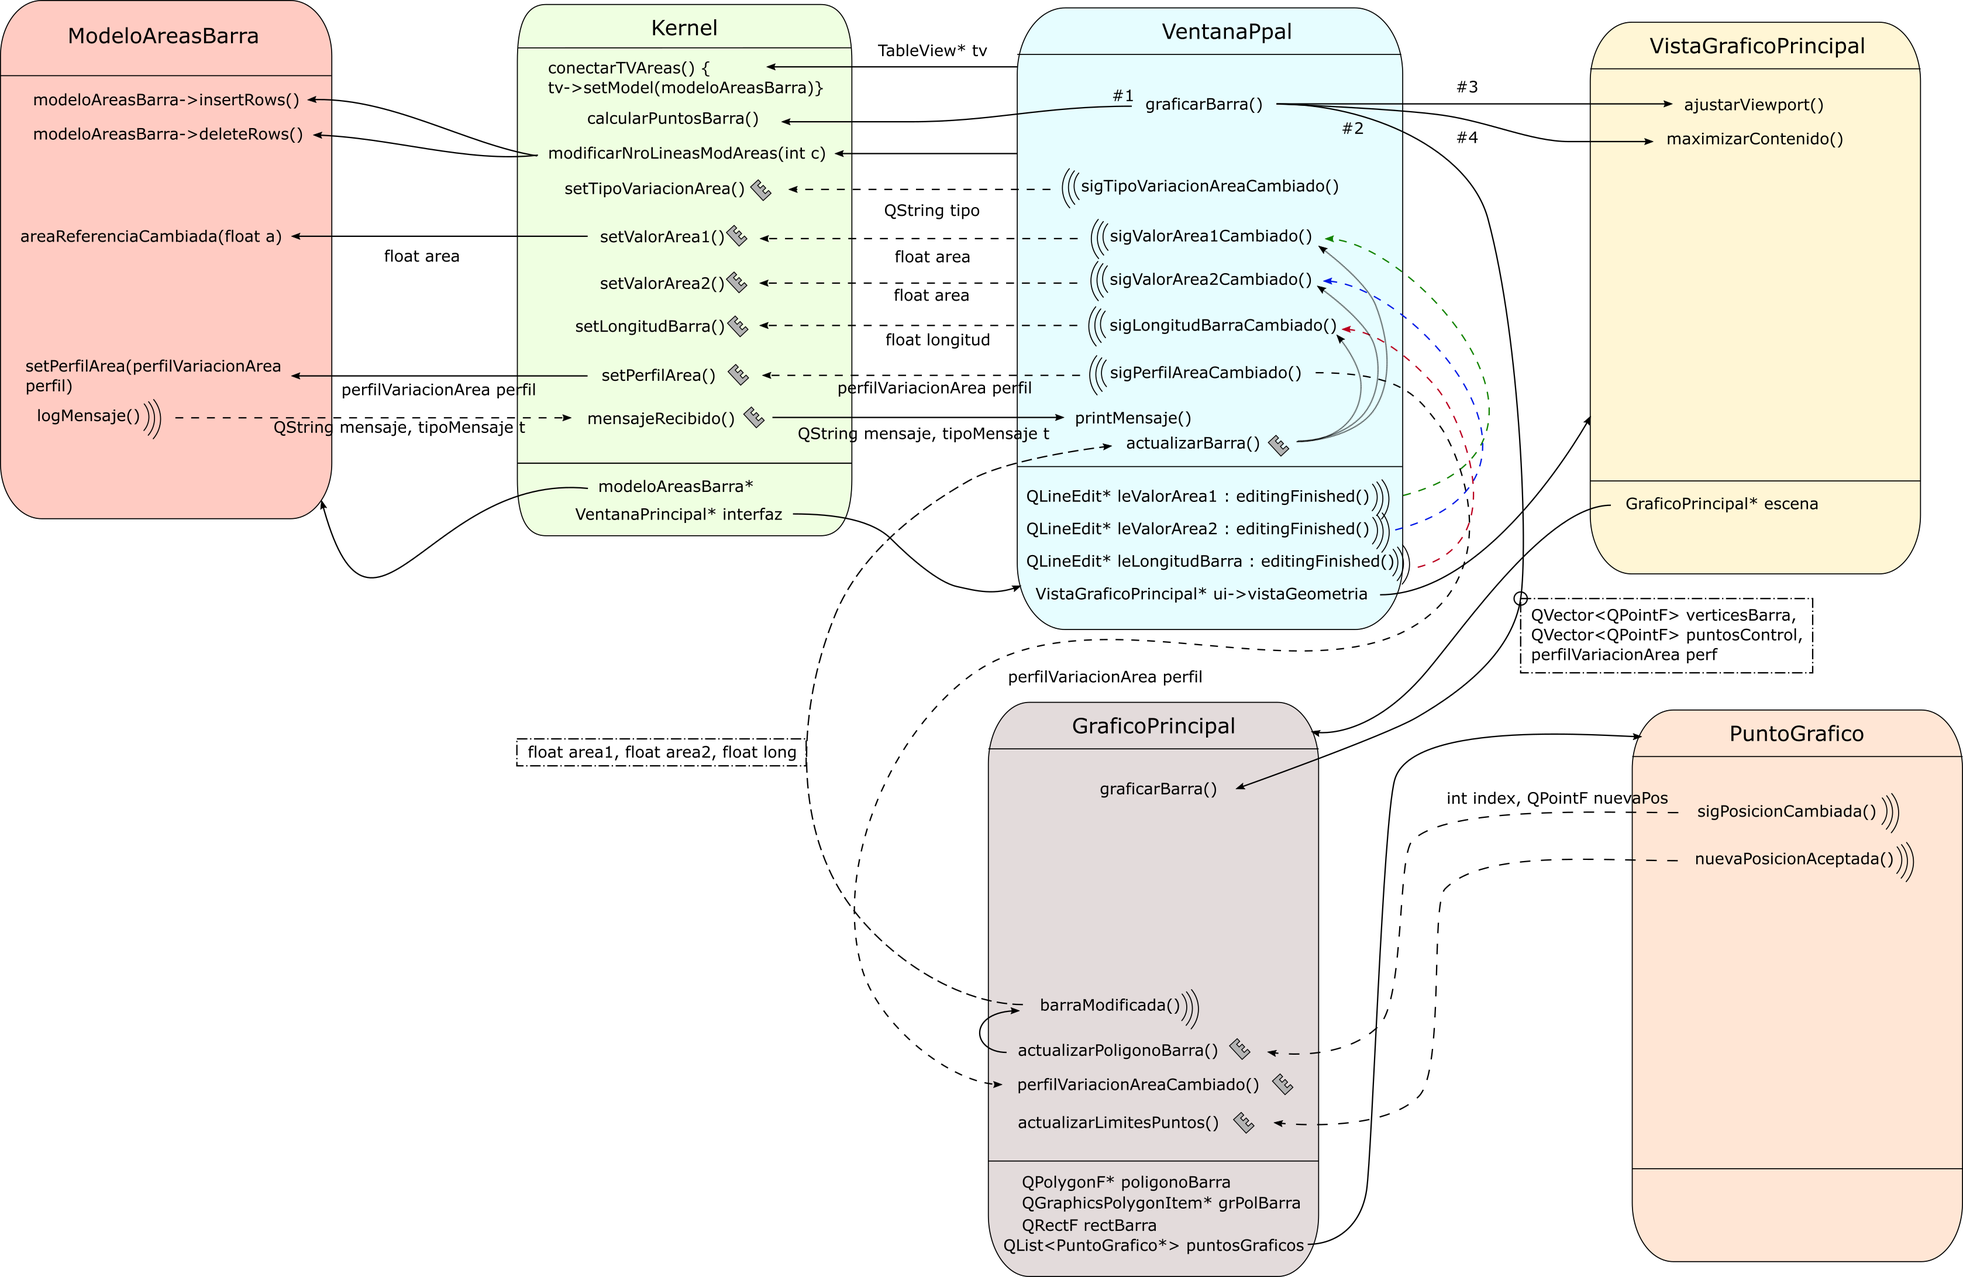
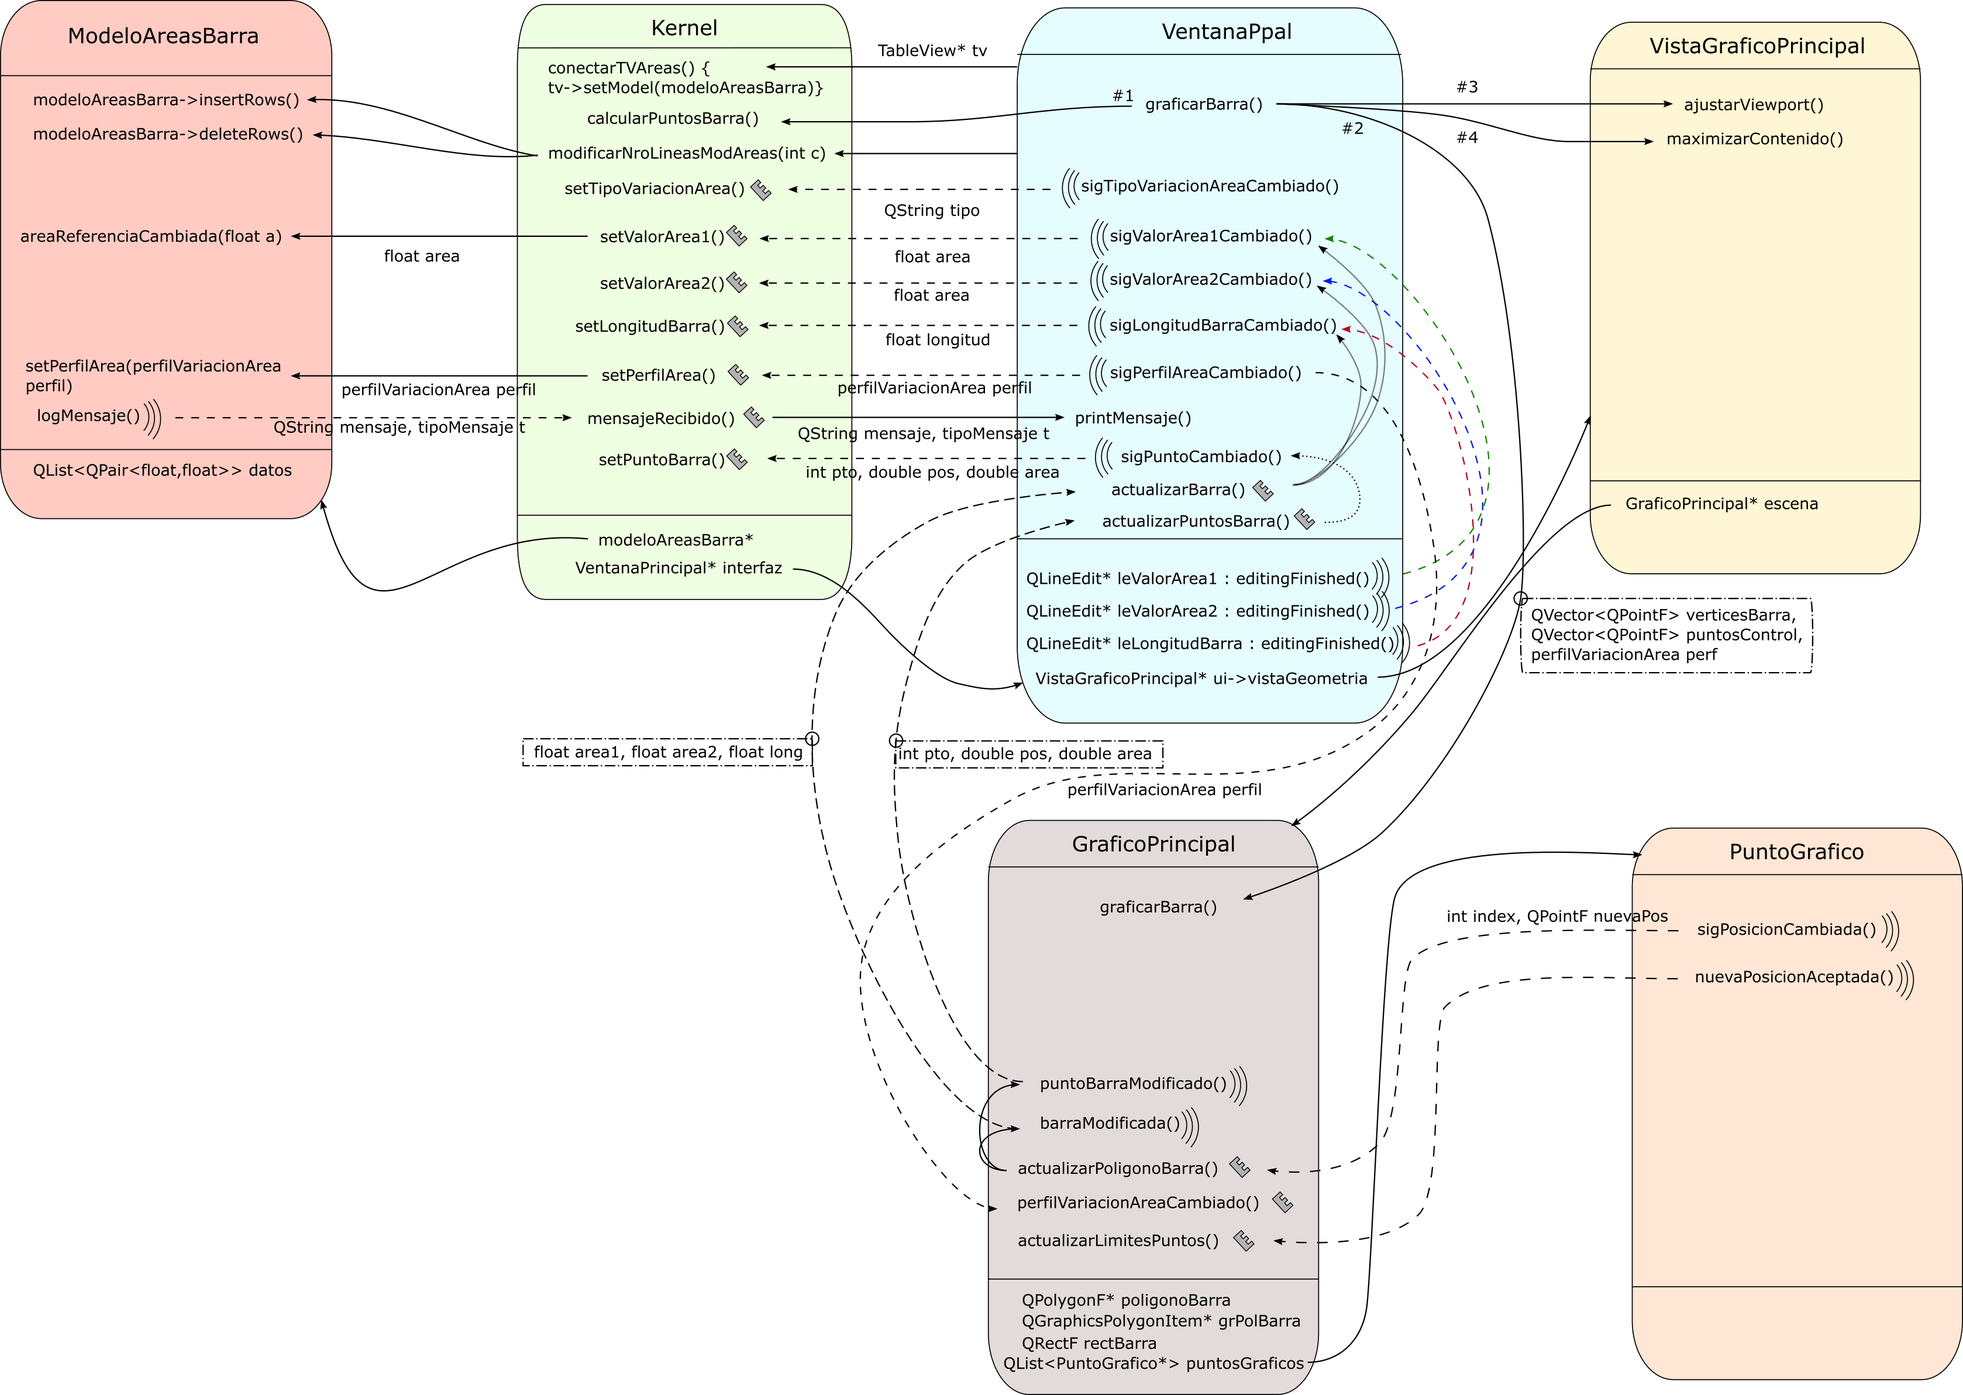
Conectado gráfico con barra CONSTXTRAM y MULTIPTO
Se completó la implementación de la conexión entre el movimiento de los
PuntosGráficos y la actualización del ModeloAreasBarra (y la tableView
asociada), ya que luego del anterior commit la conexión no funcionaba
bien. Ahora el PuntoGráfico contiene su número de vértice en el polígonoBarra
y su nro de punto de control. El primero se usa para actualizar el polígono y
el segundo se usa para saber qué index del modeloAreasBarra debe
entrarse a modificar. De pasada se cambió la variable de almacenamiento
de los datos dentro de ModeloAreasBarra, de QPair<float,float> a
QPair<double,double>. Todavía queda por conectar estos elementos en
sentido inverso.

diff --git a/datos/modeloareasbarra.cpp b/datos/modeloareasbarra.cpp
@@ -8,9 +8,9 @@ ModeloAreasBarra::ModeloAreasBarra(QObject *parent) :
     longitudBarra = PG.longBarraInicial;
     areaReferencia = PG.areaBarraInicial;
 
-    datos.append(QPair<float,float>(0.0,1.0));
-    datos.append(QPair<float,float>(longitudBarra/2,1.0));
-    datos.append(QPair<float,float>(longitudBarra,1.0));
+    datos.append(QPair<double,double>(0.0,1.0));
+    datos.append(QPair<double,double>(longitudBarra/2,1.0));
+    datos.append(QPair<double,double>(longitudBarra,1.0));
 
 }
 
@@ -41,10 +41,10 @@ QVariant ModeloAreasBarra::data(const QModelIndex &index, int role) const
             case 1:
                 return datos.at(index.row()).first/longitudBarra;
             case 2:
-                if (perfilModelo == perfilVariacionArea::CONSTANTE && (index.row()==nroFilas-1)) return "-";
+                if (perfilModelo == perfilVariacionArea::CONSTANTEPORTRAMOS && (index.row()==nroFilas-1)) return "-";
                 return datos.at(index.row()).second*areaReferencia;
             case 3:
-                if (perfilModelo == perfilVariacionArea::CONSTANTE && (index.row()==nroFilas-1)) return "-";
+                if (perfilModelo == perfilVariacionArea::CONSTANTEPORTRAMOS && (index.row()==nroFilas-1)) return "-";
                 return datos.at(index.row()).second;
             default:
                 break;
@@ -63,21 +63,26 @@ bool ModeloAreasBarra::setData(const QModelIndex &mIndex, const QVariant &value,
 {
     if (mIndex.isValid() && role == Qt::EditRole) {
         if(value.toFloat()<=0) return false;
-        QPair<float,float> p = puntoEditado(mIndex.row(), mIndex.column(), value.toFloat());
+        if (perfilModelo == perfilVariacionArea::CONSTANTEPORTRAMOS && (mIndex.row()==nroFilas-1)) return false;
+        QPair<double,double> p = puntoEditado(mIndex.row(), mIndex.column(), value.toFloat());
+        // Esto significa que estoy manteniendo la posicion pero cambiando el area,
+        // cuando esto sucede no hay que chequear si la posicion existe porque se va
+        // a encontrar a si mismo
+        bool mismoPunto = (p.first == datos[mIndex.row()].first);
         switch (mIndex.column()) {
             case 0:
-                if(posicionYaExiste(value.toFloat())) return false;
+                if(!mismoPunto && posicionYaExiste(value.toFloat())) return false;
                 actualizarValoresLongitud(mIndex.row(),value.toFloat());
                 break;
             case 1:
-                if(posicionYaExiste(value.toFloat()*longitudBarra)) return false;
+                if(!mismoPunto && posicionYaExiste(value.toFloat()*longitudBarra)) return false;
                 actualizarValoresLongitud(mIndex.row(),value.toFloat()*longitudBarra);
                 break;
             case 2:
-                datos[mIndex.row()].second = value.toFloat()/areaReferencia;
+                datos[mIndex.row()].second = value.toDouble()/areaReferencia;
                 break;
             case 3:
-                datos[mIndex.row()].second = value.toFloat();
+                datos[mIndex.row()].second = value.toDouble();
                 break;
             default:
                 return false;
@@ -168,7 +173,7 @@ bool ModeloAreasBarra::removeRows(int position, int rows, const QModelIndex &ind
     return true;
 }
 
-float ModeloAreasBarra::getPosicion(int indx)
+double ModeloAreasBarra::getPosicion(int indx)
 {
     if(indx >= nroFilas)
     {
@@ -178,7 +183,7 @@ float ModeloAreasBarra::getPosicion(int indx)
     return datos.at(indx).first;
 }
 
-float ModeloAreasBarra::getArea(int indx)
+double ModeloAreasBarra::getArea(int indx)
 {
     if(indx >= nroFilas)
     {
@@ -195,21 +200,21 @@ void ModeloAreasBarra::setPerfil(perfilVariacionArea p)
                      QAbstractItemModel::createIndex(nroFilas-1,nroColumnas-1));
 }
 
-void ModeloAreasBarra::actualizarValoresLongitud(int row, float posRelativa)
+void ModeloAreasBarra::actualizarValoresLongitud(int row, double posicionNueva)
 {
-    datos[row].first = posRelativa;
+    datos[row].first = posicionNueva;
     bool reordenar = false;
     if(row == 0)
     {
-        if(posRelativa>datos[row+1].first) reordenar=true; //Si esto es cierto hay que reordenar
+        if(posicionNueva>datos[row+1].first) reordenar=true; //Si esto es cierto hay que reordenar
     }
     else if (row == nroFilas-1)
     {
-        if(posRelativa<datos[row-1].first) reordenar=true; //Si esto es cierto hay que reordenar
+        if(posicionNueva<datos[row-1].first) reordenar=true; //Si esto es cierto hay que reordenar
     }
     else
     {
-        if(posRelativa<datos[row-1].first || posRelativa>datos[row+1].first) reordenar=true; //Si esto es cierto hay que reordenar
+        if(posicionNueva<datos[row-1].first || posicionNueva>datos[row+1].first) reordenar=true; //Si esto es cierto hay que reordenar
     }
     if (reordenar) //uso la funcion std::sort, se prefiere sobre qSort
     {
@@ -226,11 +231,12 @@ void ModeloAreasBarra::actualizarValoresLongitud(int row, float posRelativa)
     longitudCambiada(datos[nroFilas-1].first);
 }
 
-bool ModeloAreasBarra::puntoYaExiste(QPair<float, float> p)
+bool ModeloAreasBarra::puntoYaExiste(QPair<double, double> p)
 {
     if( (std::find(datos.begin(), datos.end(), p)) != datos.end())
     {
         emit logMensaje("El valor que se quiere ingresar ya existe", tipoMensaje::ERROR);
+
         return true;
     }
     return false;
@@ -249,7 +255,7 @@ bool ModeloAreasBarra::posicionYaExiste(float pos)
     return false;
 }
 
-QPair<float, float> ModeloAreasBarra::puntoEditado(int row, int column, float value)
+QPair<double, double> ModeloAreasBarra::puntoEditado(int row, int column, float value)
 {
     float valorRef = value;
     float posRef;
@@ -264,6 +270,6 @@ QPair<float, float> ModeloAreasBarra::puntoEditado(int row, int column, float va
         areaRef = (column == 2) ? valorRef/areaReferencia : valorRef;
         posRef = datos[row].first;
     }
-    QPair<float, float> p(posRef,areaRef);
+    QPair<double, double> p(posRef,areaRef);
     return p;
 }

diff --git a/grafico/graficoprincipal.cpp b/grafico/graficoprincipal.cpp
@@ -34,14 +34,17 @@ void GraficoPrincipal::graficarBarra(QVector<QPointF> verticesBarra, QVector<QPo
     grPolBarra = this->addPolygon(*poligonoBarra,p,br);
     rectBarra = grPolBarra->boundingRect();
 
+    int indxPtoCtrl = 0;
     foreach(QPointF pto, puntosControl)
     {
-        int indx = verticesBarra.indexOf(pto);
+        int indxPtoVertice = verticesBarra.indexOf(pto);
         PuntoGrafico::movimiento m = PuntoGrafico::movimiento::LIBRE;
-        if(indx == 1) m = PuntoGrafico::movimiento::VERT; //Restrinjo el movimiento si el punto esta al inicio de la barra
-        PuntoGrafico* ptoG = new PuntoGrafico(pto+QPointF(-centroBarra.x(),centroBarra.y()),10, indx, m, centroBarra.y() - PG.areaMin);
+        if(indxPtoVertice == 1) m = PuntoGrafico::movimiento::VERT; //Restrinjo el movimiento si el punto esta al inicio de la barra
+        PuntoGrafico* ptoG = new PuntoGrafico(pto+QPointF(-centroBarra.x(),centroBarra.y()),10, indxPtoVertice,
+                                              indxPtoCtrl, m, centroBarra.y() - PG.areaMin);
         puntosGraficos.append(ptoG);
         this->addItem(ptoG);
+        indxPtoCtrl++;
         connect(ptoG, &PuntoGrafico::sigPosicionCambiada, this, &GraficoPrincipal::actualizarPoligonoBarra);
         connect(ptoG, &PuntoGrafico::nuevaPosicionAceptada, this, &GraficoPrincipal::actualizarLimitesPuntos);
     }
@@ -53,20 +56,20 @@ QPointF GraficoPrincipal::centroEscena()
     return rectBarra.center();
 }
 
-void GraficoPrincipal::actualizarPoligonoBarra(int index, QPointF pos)
+void GraficoPrincipal::actualizarPoligonoBarra(int nroPtoVertice, int nroPtoControl, QPointF pos)
 {
-    (*poligonoBarra)[index] = pos;
+    (*poligonoBarra)[nroPtoVertice] = pos;
     if(perfVarArea == perfilVariacionArea::CONSTANTE)
     {
-        (*poligonoBarra)[index-1].setY(pos.y());
+        (*poligonoBarra)[nroPtoVertice-1].setY(pos.y());
         emit barraModificada(-pos.y()+centroBarra.y(),-pos.y()+centroBarra.y(),pos.x()+centroBarra.x());
     }
 
     else if(perfVarArea == perfilVariacionArea::LINEAL)
     {
-        if(index==1)
+        if(nroPtoVertice==1)
         {
-            (*poligonoBarra)[index-1].setX(pos.x());
+            (*poligonoBarra)[nroPtoVertice-1].setX(pos.x());
         }
         emit barraModificada(-(*poligonoBarra)[1].y()+centroBarra.y(),
                              -(*poligonoBarra)[2].y()+centroBarra.y(),
@@ -74,24 +77,26 @@ void GraficoPrincipal::actualizarPoligonoBarra(int index, QPointF pos)
     }
     else if(perfVarArea == perfilVariacionArea::CONSTANTEPORTRAMOS)
     {
-        if(index!=0 && index!=(poligonoBarra->length()-1))
+        if(nroPtoVertice!=0 && nroPtoVertice!=(poligonoBarra->length()-1))
         {
-            (*poligonoBarra)[index-1].setY(pos.y());
-            (*poligonoBarra)[index+1].setX(pos.x());
+            (*poligonoBarra)[nroPtoVertice-1].setY(pos.y());
+            (*poligonoBarra)[nroPtoVertice+1].setX(pos.x());
         }
-        emit puntoBarraModificado(index, (*poligonoBarra)[index].x()+centroBarra.x(),
-                                         -(*poligonoBarra)[index].y()+centroBarra.y());
+
+
+        emit puntoBarraModificado(nroPtoControl, (*poligonoBarra)[nroPtoVertice].x()+centroBarra.x(),
+                                         -(*poligonoBarra)[nroPtoVertice].y()+centroBarra.y());
     }
     else if(perfVarArea == perfilVariacionArea::MULTIPUNTO)
     {
         // Nada que implementar, están todos los casos cubiertos
-        emit puntoBarraModificado(index, (*poligonoBarra)[index].x()+centroBarra.x(),
-                                         -(*poligonoBarra)[index].y()+centroBarra.y());
+        emit puntoBarraModificado(nroPtoControl, (*poligonoBarra)[nroPtoVertice].x()+centroBarra.x(),
+                                         -(*poligonoBarra)[nroPtoVertice].y()+centroBarra.y());
     }
 
-    if(index==(poligonoBarra->length()-2)) //El ultimo punto arrastra el extremo de la barra
+    if(nroPtoVertice==(poligonoBarra->length()-2)) //El ultimo punto arrastra el extremo de la barra
     {
-        (*poligonoBarra)[index+1].setX(pos.x());
+        (*poligonoBarra)[nroPtoVertice+1].setX(pos.x());
     }
     grPolBarra->setPolygon(*poligonoBarra);
 }

diff --git a/kernel/kernel.cpp b/kernel/kernel.cpp
@@ -14,7 +14,7 @@ void Kernel::setInterfaz(VentanaPrincipal *ventanaPpal)
     connect(interfaz, &VentanaPrincipal::sigValorArea1Cambiado, this, &Kernel::setValorArea1);
     connect(interfaz, &VentanaPrincipal::sigValorArea2Cambiado, this, &Kernel::setValorArea2);
     connect(interfaz, &VentanaPrincipal::sigLongitudBarraCambiado, this, &Kernel::setLongitudBarra);
-    connect(interfaz, &VentanaPrincipal::sigPuntoCambiado, this, &Kernel::modificarPuntoBarra);
+    connect(interfaz, &VentanaPrincipal::sigPuntoCambiado, this, &Kernel::setPuntoBarra);
     ventanaPpal->enviarParametrosActuales();
 }
 
@@ -102,6 +102,7 @@ perfilVariacionArea Kernel::getPerfilVariacionArea() const
 void Kernel::setTipoVariacionArea(perfilVariacionArea tipo)
 {
     tipoVariacionAreaActivo = tipo;
+    modeloAreasBarra->setPerfil(tipo);
 }
 
 void Kernel::setValorArea1(float area)
@@ -121,15 +122,18 @@ void Kernel::setLongitudBarra(float longitud)
     longitudBarra = longitud;
 }
 
-void Kernel::setPerfilArea(perfilVariacionArea perfil)
+void Kernel::setPuntoBarra(int pto, double pos, double area)
 {
-    modeloAreasBarra->setPerfil(perfil);
-}
-
-void Kernel::modificarPuntoBarra(int pto, double pos, double area)
-{
-    modeloAreasBarra->setData(modeloAreasBarra->index(pto,0), pos);
-    modeloAreasBarra->setData(modeloAreasBarra->index(pto,2), area);
+    if(tipoVariacionAreaActivo == perfilVariacionArea::CONSTANTEPORTRAMOS)
+    {
+        modeloAreasBarra->setData(modeloAreasBarra->index(pto+1,0), pos);
+        modeloAreasBarra->setData(modeloAreasBarra->index(pto,2), area);
+    }
+    else if(tipoVariacionAreaActivo == perfilVariacionArea::MULTIPUNTO)
+    {
+        modeloAreasBarra->setData(modeloAreasBarra->index(pto,0), pos);
+        modeloAreasBarra->setData(modeloAreasBarra->index(pto,2), area);
+    }
 }
 
 void Kernel::mensajeRecibido(QString mensaje, tipoMensaje tipo)

diff --git a/datos/modeloareasbarra.h b/datos/modeloareasbarra.h
@@ -16,6 +16,12 @@
  * Nro punto: empieza en 1 y se usa para numerar los puntos donde se definiran las secciones
  * Pos absoluta: posicion absoulta en metros respecto al punto 1 del punto en cuestion
  * Area absoluta: magnitud del area, en metros cuadrados en el punto en cuestion
+ *
+ * La informacion se guarda en una lista de QPoint<double,double>, donde el primer elemento
+ * es la posicion absoulta y el segundo elemento es el area relativa. Para obtener el area
+ * absoluta hay que multiplicarla por el area de referencia
+ *
+ *
  */
 
 
@@ -41,8 +47,8 @@ public:
     int getNroEntradas() {return datos.size();}
     int getNroFilas() {return nroFilas;}
 
-    float getPosicion(int indx);
-    float getArea(int indx);
+    double getPosicion(int indx);
+    double getArea(int indx);
 
     void setPerfil(perfilVariacionArea p);
 
@@ -53,6 +59,7 @@ public slots:
 signals:
     void logMensaje(QString mensaje, tipoMensaje t);
     void filaCambiada(QModelIndex);
+    void sigReversionPuntos(int nroPuntoPrimero, int nroPuntoSegundo);
 
 private:
 
@@ -65,14 +72,14 @@ private:
 
     paramGlob PG;
 
-    QList<QPair<float,float>> datos;  // Lista de QPair<posicion,area>
+    QList<QPair<double,double>> datos;  // Lista de QPair<posicion,area>
 
-    void actualizarValoresLongitud(int row, float longitud);
+    void actualizarValoresLongitud(int row, double longitud);
     //function para procesar cambios en la lista de posiciones, por ejemplo cuando se necesita
     //un reordenamiento.
-    bool puntoYaExiste(QPair<float, float>);
+    bool puntoYaExiste(QPair<double, double>);
     bool posicionYaExiste(float pos);
-    QPair<float,float> puntoEditado(int row, int column, float value);
+    QPair<double, double> puntoEditado(int row, int column, float value);
 };
 
 #endif // MODELOAREASBARRA_H

diff --git a/grafico/puntografico.h b/grafico/puntografico.h
@@ -17,12 +17,13 @@ class PuntoGrafico : public QGraphicsObject
 public:
     enum {Type = UserType + 1};
     enum class movimiento {LIBRE, VERT, HOR};
-    PuntoGrafico(const QPointF& centro, const float diametro, int index, movimiento mov,
+    PuntoGrafico(const QPointF& centro, const float diametro, int index, int nroPto, movimiento mov,
                  float ylim, QGraphicsItem *parent = nullptr);
     void setDiametro(const float diametro);
     void escalarDiametro(const float escala);
     void setXLims(Limites lims);
-    int indx() {return numeroOrden;};
+    int getNroPtoControl() {return nroPtoControl;};
+    int getNroPtoVertice() {return nroPtoVertice;};
 
     void virtual paint(QPainter* p, const QStyleOptionGraphicsItem* option, QWidget* w) override;
     void virtual hoverEnterEvent(QGraphicsSceneHoverEvent* event) override;
@@ -34,7 +35,7 @@ public:
     int type() const override {return Type;};
 
 signals:
-    void sigPosicionCambiada(int index, QPointF nuevaPos);
+    void sigPosicionCambiada(int nroPtoVertice, int nroPtoCtrl, QPointF nuevaPos);
     void nuevaPosicionAceptada();
 
 private:
@@ -49,7 +50,9 @@ private:
     QBrush brSelect;
 
     bool hovered;
-    int numeroOrden;
+    int nroPtoControl;
+    int nroPtoVertice;
+
 
     movimiento movim;
 };

diff --git a/grafico/puntografico.cpp b/grafico/puntografico.cpp
@@ -1,12 +1,13 @@
 #include "puntografico.h"
 
-PuntoGrafico::PuntoGrafico(const QPointF& centro, const float diametro, int index,
+PuntoGrafico::PuntoGrafico(const QPointF& centro, const float diametro, int nroPtoVert, int nroPtoCtrl,
                            movimiento mov, float ylim, QGraphicsItem *parent) :
     QGraphicsObject(parent),
     centroPunto(centro),
     diametroPunto(diametro),
-    numeroOrden(index),
     yLim(ylim),
+    nroPtoControl(nroPtoCtrl),
+    nroPtoVertice(nroPtoVert),
     movim(mov)
 {
     setPos(centroPunto);
@@ -93,7 +94,7 @@ QVariant PuntoGrafico::itemChange(QGraphicsItem::GraphicsItemChange change, cons
         else if ((nuevaPos.x() > xLims.limMax) && (xLims.limMaxOn)) {
             nuevaPos.setX(xLims.limMax);
         }
-        emit sigPosicionCambiada(numeroOrden, nuevaPos);
+        emit sigPosicionCambiada(nroPtoVertice, nroPtoControl, nuevaPos);
         return nuevaPos;
     }
     return QGraphicsItem::itemChange(change, value);

diff --git a/kernel/kernel.h b/kernel/kernel.h
@@ -29,8 +29,7 @@ public slots:
     void setValorArea1(float area);
     void setValorArea2(float area);
     void setLongitudBarra(float longitud);
-    void setPerfilArea(perfilVariacionArea perfil);
-    void modificarPuntoBarra(int pto, double pos, double area);
+    void setPuntoBarra(int pto, double pos, double area);
 
 private:
 

diff --git a/grafico/graficoprincipal.h b/grafico/graficoprincipal.h
@@ -17,7 +17,7 @@ public:
     QPointF centroEscena();
 
 public slots:
-    void actualizarPoligonoBarra(int index, QPointF pos);
+    void actualizarPoligonoBarra(int nroPtoVertice, int nroPtoControl, QPointF pos);
     void perfilVariacionAreaCambiado(perfilVariacionArea perf);
     void actualizarLimitesPuntos();
 

diff --git a/interfaz/ventanaprincipal.cpp b/interfaz/ventanaprincipal.cpp
@@ -577,7 +577,6 @@ void VentanaPrincipal::actualizarBarra(double area1, double area2, double longit
 
 void VentanaPrincipal::actualizarPuntoBarra(int pto, double pos, double area)
 {
-    pto--;
     emit sigPuntoCambiado(pto, pos, area);
 }
 
